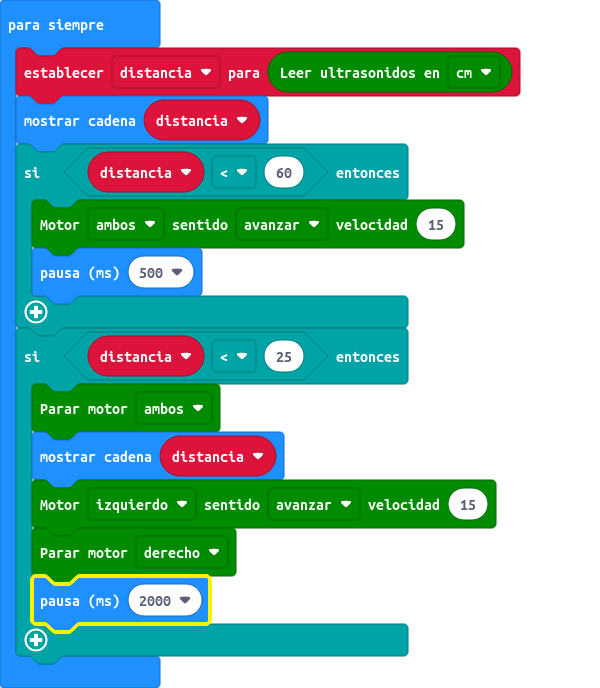
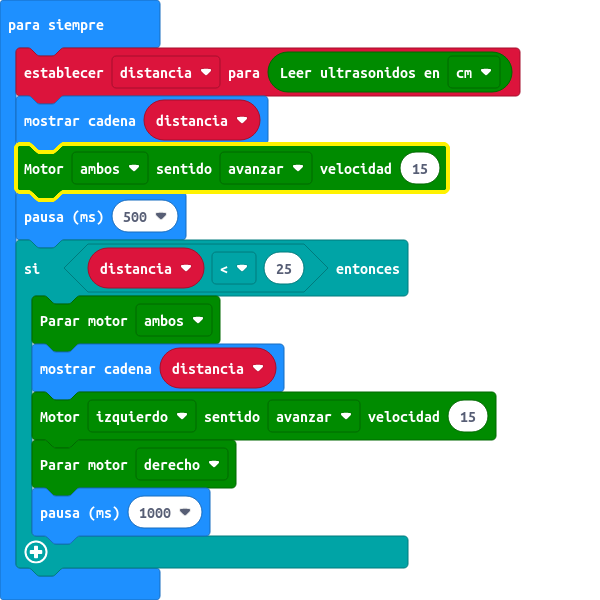
Actualizar main.blocks, main.ts

diff --git a/main.ts b/main.ts
@@ -2,15 +2,13 @@ let distancia = 0
 basic.forever(function () {
     distancia = maqueen.Ultrasonic(PingUnit.Centimeters)
     basic.showString("" + (distancia))
-    if (distancia < 60) {
-        maqueen.motorRun(maqueen.Motors.All, maqueen.Dir.CW, 15)
-        basic.pause(500)
-    }
+    maqueen.motorRun(maqueen.Motors.All, maqueen.Dir.CW, 15)
+    basic.pause(500)
     if (distancia < 25) {
         maqueen.motorStop(maqueen.Motors.All)
         basic.showString("" + (distancia))
         maqueen.motorRun(maqueen.Motors.M1, maqueen.Dir.CW, 15)
         maqueen.motorStop(maqueen.Motors.M2)
-        basic.pause(2000)
+        basic.pause(1000)
     }
 })
